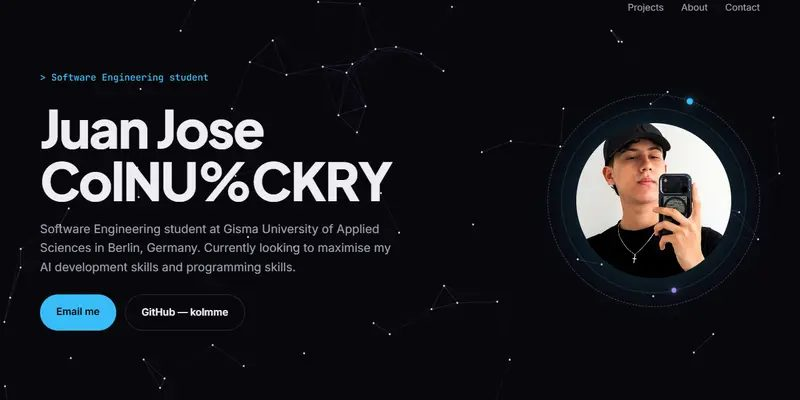
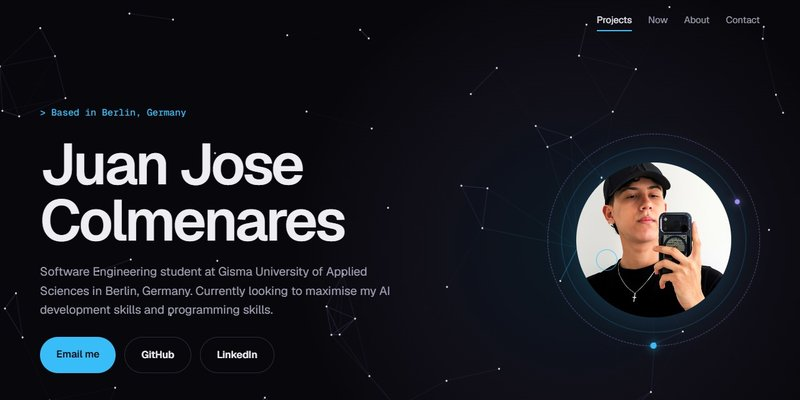
Portafolio: Orbyte nueva en todas partes
- GIF nuevo de Orbyte (la cara de ahora, sus habilidades y los estados) en la tarjeta de Projects y en el caso de estudio
- Grabación nueva de la tarjeta «Personal Portfolio Website» (ya sin el Orbyte viejo)
- Caso de estudio: sección «What's new · November 2026» y texto nuevo de «Why I built it»
- Fotos fijas (orbyte.jpg, web.jpg) tomadas de las animaciones nuevas

diff --git a/orbyte.html b/orbyte.html
@@ -28,7 +28,7 @@ h1{margin:0;font-size:clamp(56px,9vw,112px);line-height:.95;font-weight:600;lett
 h1 em{font-family:'Instrument Serif',serif;font-weight:400;letter-spacing:-.01em;color:var(--celeste)}
 .bajada{margin:0;max-width:720px;font-size:21px;color:var(--suave2)}
 .video{border-radius:22px;overflow:hidden;border:1px solid var(--borde);box-shadow:0 30px 80px rgba(0,0,0,.55),0 0 40px rgba(56,189,248,.12)}
-.video video{width:100%;height:auto;aspect-ratio:2/1;object-fit:cover}
+.video video,.video img{display:block;width:100%;height:auto;aspect-ratio:2/1;object-fit:cover}
 .datos{display:grid;grid-template-columns:repeat(auto-fit,minmax(200px,1fr));gap:16px;padding:40px 0 20px}
 .dato{border-top:1px solid var(--borde);padding-top:14px}
 .dato b{display:block;font-size:15px;font-weight:600}.dato span{color:var(--suave);font-size:15px}
@@ -69,6 +69,7 @@ h1 em{font-family:'Instrument Serif',serif;font-weight:400;letter-spacing:-.01em
     <a class="marca" href="./">Juan Jose Colmenares</a>
     <a class="nav" href="#why">Why</a>
     <a class="nav" href="#how">How it works</a>
+    <a class="nav" href="#new">What’s new</a>
     <a class="nav" href="#learned">What I learned</a>
   </div>
 </nav>
@@ -79,7 +80,7 @@ h1 em{font-family:'Instrument Serif',serif;font-weight:400;letter-spacing:-.01em
     <p class="lbl">CASE STUDY · PERSONAL PROJECT</p>
     <h1>Orbyte<em>.</em></h1>
     <p class="bajada">Orbyte AI is a personal AI assistant that lives on my own laptop. I say “Orbyte”, she listens, and she helps me organise my week, study maths and German, and control my PC — in Spanish, by voice.</p>
-    <div class="video revela"><video autoplay muted loop playsinline preload="metadata" poster="orbyte.jpg" aria-label="Orbyte AI assistant in action"><source src="orbyte.mp4" type="video/mp4"></video></div>
+    <div class="video revela"><img src="orbyte.webp" width="800" height="400" alt="Orbyte AI assistant in action: organizing the week, answering questions, teaching on a whiteboard, tracking money, watching the PC and remembering things"></div>
     <div class="datos revela d1">
       <div class="dato"><b>Role</b><span>Solo project — idea, design and code</span></div>
       <div class="dato"><b>Timeline</b><span>September 2026 — today</span></div>
@@ -91,8 +92,7 @@ h1 em{font-family:'Instrument Serif',serif;font-weight:400;letter-spacing:-.01em
   <section class="contenedor bloque" id="why">
     <h2 class="revela">Why I built it</h2>
     <div class="revela d1">
-      <p>I moved to Berlin to study Software Engineering, learn German, and take a maths course. My week was spread across calendars, notes, chats, and apps.</p>
-      <p>I wanted one assistant that knows my schedule and my courses, that I can simply talk to, and that I can finally build and understand myself, piece by piece.</p>
+      <p>I moved to Berlin to study Software Engineering. To organise my time and study as much as possible, I wanted an assistant that knows my schedule, my courses and how I like to study, so I could rely on her.</p>
     </div>
   </section>
 
@@ -115,6 +115,19 @@ h1 em{font-family:'Instrument Serif',serif;font-weight:400;letter-spacing:-.01em
       <li>Play music, open apps, set timers and control my PC by voice</li>
       <li>Search my notes and documents when I ask about a specific topic</li>
       <li>Talk to me on Telegram when I'm away from my laptop</li>
+    </ul>
+  </section>
+
+  <section class="contenedor bloque" id="new">
+    <h2 class="revela">What’s new<br><span style="color:var(--suave);font-size:.55em;font-weight:500">November 2026</span></h2>
+    <ul class="lista revela d1">
+      <li><span><b>Her own voice.</b> A text-to-speech model (Piper) I trained on my own GPU for about 1,300 epochs. It runs offline on the CPU.</span></li>
+      <li><span><b>A new face.</b> A black hole with gem-like eyes that changes expression while she talks, drawn with a WebGL shader. On the desktop she floats as a hologram, with a small “dynamic island” for alerts, music and timers.</span></li>
+      <li><span><b>Fast and cheap.</b> A rule-based voice layer answers most spoken requests in milliseconds, even without internet. Only the rest goes to Claude, picking Haiku, Sonnet or Opus by how hard the question is.</span></li>
+      <li><span><b>Live whiteboard.</b> She draws the explanation step by step, formulas included, while she talks.</span></li>
+      <li><span><b>Long-term memory.</b> She remembers people, preferences and shared moments.</span></li>
+      <li><span><b>One app everywhere.</b> The same app runs on my PC and on my phone.</span></li>
+      <li><span><b>Tested.</b> 600+ automated voice tests run in a sandbox (no internet, no real keys) before every commit.</span></li>
     </ul>
   </section>
 

diff --git a/index.html b/index.html
@@ -59,7 +59,7 @@ h2{margin:0;font-size:48px;font-weight:600;letter-spacing:-.04em}
 .slide{position:absolute;left:50%;top:0;width:min(760px,86vw);background:var(--tarjeta);border:1px solid var(--borde);border-radius:24px;padding:18px;transition:transform .65s cubic-bezier(.2,.8,.2,1),opacity .65s,border-color .4s,box-shadow .4s}
 .slide.centro{border-color:rgba(56,189,248,.45);box-shadow:0 30px 80px rgba(0,0,0,.55),0 0 40px rgba(56,189,248,.15)}
 .portada{aspect-ratio:2/1;border-radius:16px;overflow:hidden;display:grid;place-items:center}
-.portada video{width:100%;height:100%;object-fit:cover}
+.portada video,.portada img{width:100%;height:100%;object-fit:cover}
 .slide .info{padding:20px 8px 6px;display:flex;flex-direction:column;gap:8px}
 .etiqueta{margin:0;font:500 12px 'Geist Mono',monospace;letter-spacing:.14em;color:var(--celeste)}
 .slide h3{margin:0;font-size:28px;font-weight:600;letter-spacing:-.03em}
@@ -177,7 +177,7 @@ Colmenares</h1>
   </div>
   <div class="pista revela d1" id="pista">
     <article class="slide">
-      <div class="portada" style="background:#05030B"><video autoplay muted loop playsinline preload="metadata" poster="orbyte.jpg" aria-label="Orbyte AI assistant in action: listening, answering and showing the day"><source src="orbyte.mp4" type="video/mp4"></video></div>
+      <div class="portada" style="background:#05030B"><img src="orbyte.webp" width="800" height="400" loading="lazy" alt="Orbyte AI assistant in action: organizing the week, answering questions, teaching on a whiteboard and more"></div>
       <div class="info"><p class="etiqueta">FEATURED · 2026</p><h3>Orbyte</h3><p class="txt">My own AI, built in Python with the Claude API. It talks in Spanish by voice, helps me study maths, code, and German, remembers our conversations, and connects to my calendar, Gmail, Telegram, and WhatsApp — all running on my own PC.</p><a class="caso" href="orbyte.html">Read the case study →</a></div>
     </article>
     <article class="slide">
@@ -189,7 +189,7 @@ Colmenares</h1>
       <div class="info"><p class="etiqueta">2026 · LATEX</p><h3>CV — LaTeX</h3><p class="txt">Developed a professional curriculum vitae by writing LaTeX code.</p></div>
     </article>
     <article class="slide">
-      <div class="portada" style="background:#0B1626"><video autoplay muted loop playsinline preload="metadata" poster="web.jpg" aria-label="Scrolling through this portfolio website with the mouse"><source src="web.mp4" type="video/mp4"></video></div>
+      <div class="portada" style="background:#0B1626"><img src="web.webp" width="800" height="400" loading="lazy" alt="Scrolling through this portfolio website with the mouse"></div>
       <div class="info"><p class="etiqueta">2026 · WEBSITE</p><h3>Personal Portfolio Website</h3><p class="txt">Developed a personal website to showcase academic achievements, skills, and projects.</p><a class="caso" href="https://github.com/kolmme/kolmme.github.io" target="_blank" rel="noopener">View code →</a></div>
     </article>
     <article class="slide">
